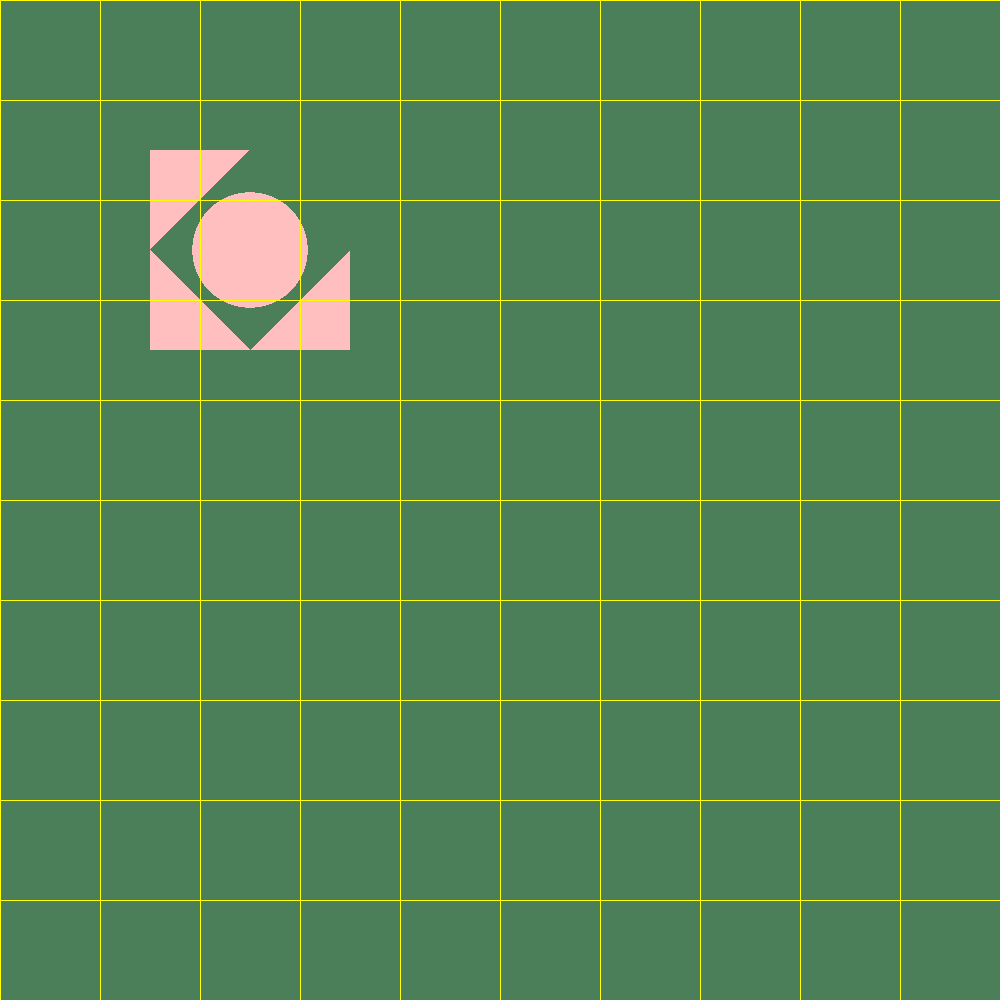
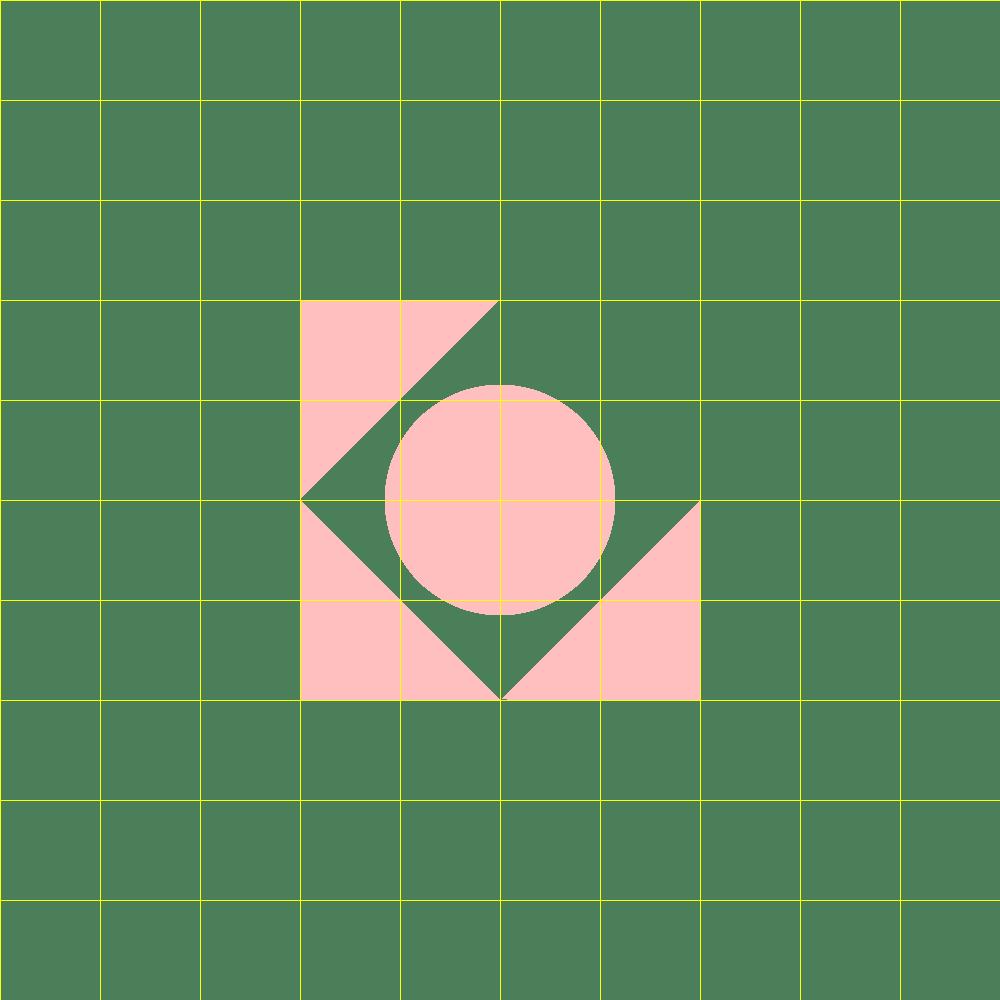
finish exercise 5

Changed region(s): [[0.124, 0.124, 0.713, 0.713]]

diff --git a/Exercise1/src/test/rendererTests/RenderTests.java b/Exercise1/src/test/rendererTests/RenderTests.java
@@ -1,7 +1,11 @@
 package test.rendererTests;
 
+import java.io.File;
+import java.io.IOException;
+import static xml.XmlTool.xmlHendler;
+import javax.xml.parsers.*;
+import org.xml.sax.SAXException;
 import org.junit.jupiter.api.Test;
-
 import lighting.AmbientLight;
 import geometries.*;
 import primitives.*;
@@ -15,53 +19,64 @@ import scene.Scene;
  */
 public class RenderTests {
 
-    /**
-     * Produce a scene with basic 3D model and render it into a png image with a
-     * grid
-     */
-    @Test
-    public void basicRenderTwoColorTest() {
-        Scene scene = new Scene("Test scene")//
-                .setAmbientLight(new AmbientLight(new Color(255, 191, 191), //
-                        new Double3(1, 1, 1))) //
-                .setBackground(new Color(75, 127, 90));
+	/**
+	 * Produce a scene with basic 3D model and render it into a png image with a
+	 * grid
+	 */
+	@Test
+	public void basicRenderTwoColorTest() {
+		Scene scene = new Scene("Test scene")//
+				.setAmbientLight(new AmbientLight(new Color(255, 191, 191), //
+						new Double3(1, 1, 1))) //
+				.setBackground(new Color(75, 127, 90));
 
-        scene.geometries.add(new Sphere(new Point(0, 0, -100), 50),
-                new Triangle(new Point(-100, 0, -100), new Point(0, 100, -100), new Point(-100, 100, -100)), // up
-                                                                                                             // left
-                new Triangle(new Point(-100, 0, -100), new Point(0, -100, -100), new Point(-100, -100, -100)), // down
-                                                                                                               // left
-                new Triangle(new Point(100, 0, -100), new Point(0, -100, -100), new Point(100, -100, -100))); // down
-                                                                                                              // right
-        Camera camera = new Camera(Point.ZERO, new Vector(0, 0, -1), new Vector(0, 1, 0)) //
-                .setViewPlaneDistance(100) //
-                .setViewPlaneSize(500, 500) //
-                .setImageWriter(new ImageWriter("base render test", 1000, 1000))
-                .setRayTracer(new RayTracerBasic(scene));
+		scene.geometries.add(new Sphere(new Point(0, 0, -100), 50),
+				new Triangle(new Point(-100, 0, -100), new Point(0, 100, -100),
+						new Point(-100, 100, -100)), // up
+														// left
+				new Triangle(new Point(-100, 0, -100), new Point(0, -100, -100),
+						new Point(-100, -100, -100)), // down
+														// left
+				new Triangle(new Point(100, 0, -100), new Point(0, -100, -100),
+						new Point(100, -100, -100))); // down
+														// right
+		Camera camera = new Camera(Point.ZERO, new Vector(0, 0, -1), new Vector(0, 1, 0)) //
+				.setViewPlaneDistance(100) //
+				.setViewPlaneSize(500, 500) //
+				.setImageWriter(new ImageWriter("base render test", 1000, 1000))
+				.setRayTracer(new RayTracerBasic(scene));
 
-        camera.renderImage();
-        camera.printGrid(100, new Color(java.awt.Color.YELLOW));
-        camera.writeToImage();
-    }
+		camera.renderImage();
+		camera.printGrid(100, new Color(java.awt.Color.YELLOW));
+		camera.writeToImage();
+	}
 
-    /**
-     * Test for XML based scene - for bonus
-     */
-    /*
-    @Test
-    public void basicRenderXml() {
-        Scene scene = new Scene("XML Test scene");
-        // enter XML file name and parse from XML file into scene object
-        // ...
+	
 
-        Camera camera = new Camera(Point.ZERO, new Vector(0, 0, -1), new Vector(0, 1, 0)) //
-                .setViewPlaneDistance(100) //
-                .setViewPlaneSize(500, 500)
-                .setImageWriter(new ImageWriter("xml render test", 1000, 1000))
-                .setRayTracer(new RayTracerBasic(scene));
-        camera.renderImage();
-        camera.printGrid(100, new Color(java.awt.Color.YELLOW));
-        camera.writeToImage();
-    }
-    */
+	/**
+	 * Test for XML based scene - for bonus
+	 */
+	@Test
+	public void basicRenderXml() {
+		Scene scene = new Scene("XML Test scene");
+		File xmlFile = new File(
+				"C:\\Users\\arial\\Java\\ISE5782_2845_5562\\Exercise1\\XML\\basicRenderTestTwoColors.xml");
+		try {
+			scene = xmlHendler(scene, xmlFile);
+			// enter XML file name and parse from XML file into scene object
+			// ...
+
+			Camera camera = new Camera(Point.ZERO, new Vector(0, 0, -1), new Vector(0, 1, 0)) //
+					.setViewPlaneDistance(100) //
+					.setViewPlaneSize(500, 500)
+					.setImageWriter(new ImageWriter("xml render test", 1000, 1000))
+					.setRayTracer(new RayTracerBasic(scene));
+			camera.renderImage();
+			camera.printGrid(100, new Color(java.awt.Color.YELLOW));
+			camera.writeToImage();
+		} catch (ParserConfigurationException | SAXException | IOException e) {
+			e.printStackTrace();
+		}
+	}
+
 }

diff --git a/Exercise1/src/xml/XmlTool.java b/Exercise1/src/xml/XmlTool.java
@@ -1,0 +1,98 @@
+package xml;
+import java.io.File;
+import java.io.IOException;
+import java.util.ArrayList;
+import java.util.Arrays;
+import java.util.List;
+import java.util.MissingResourceException;
+
+import javax.xml.parsers.*;
+import org.w3c.dom.*;
+import org.xml.sax.SAXException;
+import lighting.AmbientLight;
+import geometries.*;
+import primitives.*;
+import scene.Scene;
+public abstract class XmlTool {
+
+    public static Point StringToDouble(String str) {
+		str += " ";
+		double[] list = Arrays.stream(str.split(" ")).mapToDouble(Double::parseDouble).toArray();
+		if (list.length == 1) {
+			return new Point(list[0], 0, 0);
+		}
+		if (list.length == 2) {
+			return new Point(list[0], list[1], 0);
+		}
+		if (list.length == 3) {
+			return new Point(list[0], list[1], list[2]);
+		}
+		return null;
+	}
+
+    public static Scene xmlHendler(Scene scene, File xmlFile) throws ParserConfigurationException, SAXException, IOException {
+		DocumentBuilderFactory factory = DocumentBuilderFactory.newInstance();
+		DocumentBuilder builder = factory.newDocumentBuilder();
+
+		// Parse the XML file and create a Document object
+		Document doc = builder.parse(xmlFile);
+		doc.getDocumentElement().normalize();
+
+		// Get all elements in the XML file
+		NodeList elements = doc.getElementsByTagName("*");
+		for (int i = 0; i < elements.getLength(); i++) {
+			Element element = (Element) elements.item(i);
+			System.out.println("Element name: " + element.getNodeName());
+			NamedNodeMap attributes = element.getAttributes();
+			for (int j = 0; j < attributes.getLength(); j++) {
+				Point point1 = StringToDouble(attributes.item(j).getNodeValue());
+
+				switch (element.getNodeName()) {
+					case "scene":
+						scene.setBackground(new Color(point1.getX(), point1.getY(), point1.getZ()));
+						break;
+					case "ambient-light":
+						scene.setAmbientLight(new AmbientLight(
+								new Color(point1.getX(), point1.getY(), point1.getZ()),
+								new Double3(0)));
+						break;
+					case "sphere":
+						Point point2 = StringToDouble(attributes.item(j + 1).getNodeValue());
+						j++;
+						scene.geometries.add(
+								new Sphere(point1, point2.getX()));
+						break;
+					case "triangle":
+						point2 = StringToDouble(attributes.item(j + 1).getNodeValue());
+						Point point3 = StringToDouble(attributes.item(j + 2).getNodeValue());
+						j += 2;
+						scene.geometries.add(new Triangle(point1, point2, point3));
+						break;
+					case "polygon":
+						int e = 0;
+						List<Point> points = new ArrayList<Point>();
+						while (attributes.item(j).getNodeName().startsWith("p")) {
+							points.add(StringToDouble(attributes.item(j + e).getNodeValue()));
+							e++;
+						}
+						j += e;
+						scene.geometries.add(new Polygon(((Point[]) points.toArray())));
+						break;
+					case "cylinder":
+						throw new MissingResourceException("the cylinder is lack of info", "basicRenderXml", null);
+					case "plane":
+						point2 = StringToDouble(attributes.item(j + 1).getNodeValue());
+						point3 = StringToDouble(attributes.item(j + 2).getNodeValue());
+						j += 2;
+						scene.geometries.add(new Triangle(point1, point2, point3));
+						break;
+					case "tube":
+						throw new MissingResourceException("the tube is lack of info", "basicRenderXml", null);
+					default:
+						break;
+				}
+			}
+		}
+		return scene;
+	}
+}

diff --git a/Exercise1/src/renderer/Camera.java b/Exercise1/src/renderer/Camera.java
@@ -62,15 +62,15 @@ public class Camera {
         } else if (this.rayTracerBase == null) {
             throw new MissingResourceException("the rayTracerBase is null", "RayTracerBase", null);
         }
-        for (int i = 0; i < imageWriter.getNx(); i++) {
-            for (int j = 0; j < imageWriter.getNy(); j++) {
-                imageWriter.writePixel(i, j,castRay(((int)width),((int)height),i,j));
+        for (int i = 0; i < imageWriter.getNy(); i++) {
+            for (int j = 0; j < imageWriter.getNx(); j++) {
+                imageWriter.writePixel(i, j,castRay((imageWriter.getNx()),(imageWriter.getNy()),i,j));
             }
         }
     }
 
     public Color castRay(int nX, int nY, int i, int j){
-        return rayTracerBase.traceRay(constructRay(((int)width),((int)height),i,j));
+        return rayTracerBase.traceRay(constructRay(nX,nY,i,j));
     }
 
     /**
@@ -98,13 +98,12 @@ public class Camera {
     }
 
     public void printGrid(int interval, Color color) {
-        int amount = ((int) Math.abs(interval));
         if (imageWriter != null) {
-            for (int i = 0; i < imageWriter.getNx(); i++) {
-                for (int j = 0; j < imageWriter.getNy(); j++) {
-                    if (i % amount == 0) {
+            for (int i = 0; i < imageWriter.getNy(); i++) {
+                for (int j = 0; j < imageWriter.getNx(); j++) {
+                    if (i % interval == 0) {
                         imageWriter.writePixel(i, j, color);
-                    } else if (j % amount == 0) {
+                    } if (j % interval == 0) {
                         imageWriter.writePixel(i, j, color);
                     }
                 }

diff --git a/Exercise1/src/primitives/Color.java b/Exercise1/src/primitives/Color.java
@@ -1,5 +1,7 @@
 package primitives;
 
+import java.util.Arrays;
+
 /**
  * Wrapper class for java.jwt.Color The constructors operate with any
  * non-negative RGB values. The colors are maintained without upper limit of
@@ -146,4 +148,9 @@ public class Color {
 	public String toString() {
 		return "rgb:" + rgb;
 	}
+
+    public static Color cast(String nodeValue) {
+        int[] intArray = Arrays.stream(nodeValue.split(" ")).mapToInt(Integer::parseInt).toArray();
+		return new Color(intArray[0], intArray[1], intArray[2]);
+    }
 }

diff --git a/Exercise1/src/geometries/Geometries.java b/Exercise1/src/geometries/Geometries.java
@@ -22,7 +22,6 @@ public class Geometries implements Intersectable {
     }
 
     public void add(Intersectable... geometries) {
-        intersecList = new LinkedList<Intersectable>();
         for (Intersectable geometrie : geometries) {
             intersecList.add(geometrie);
         }
